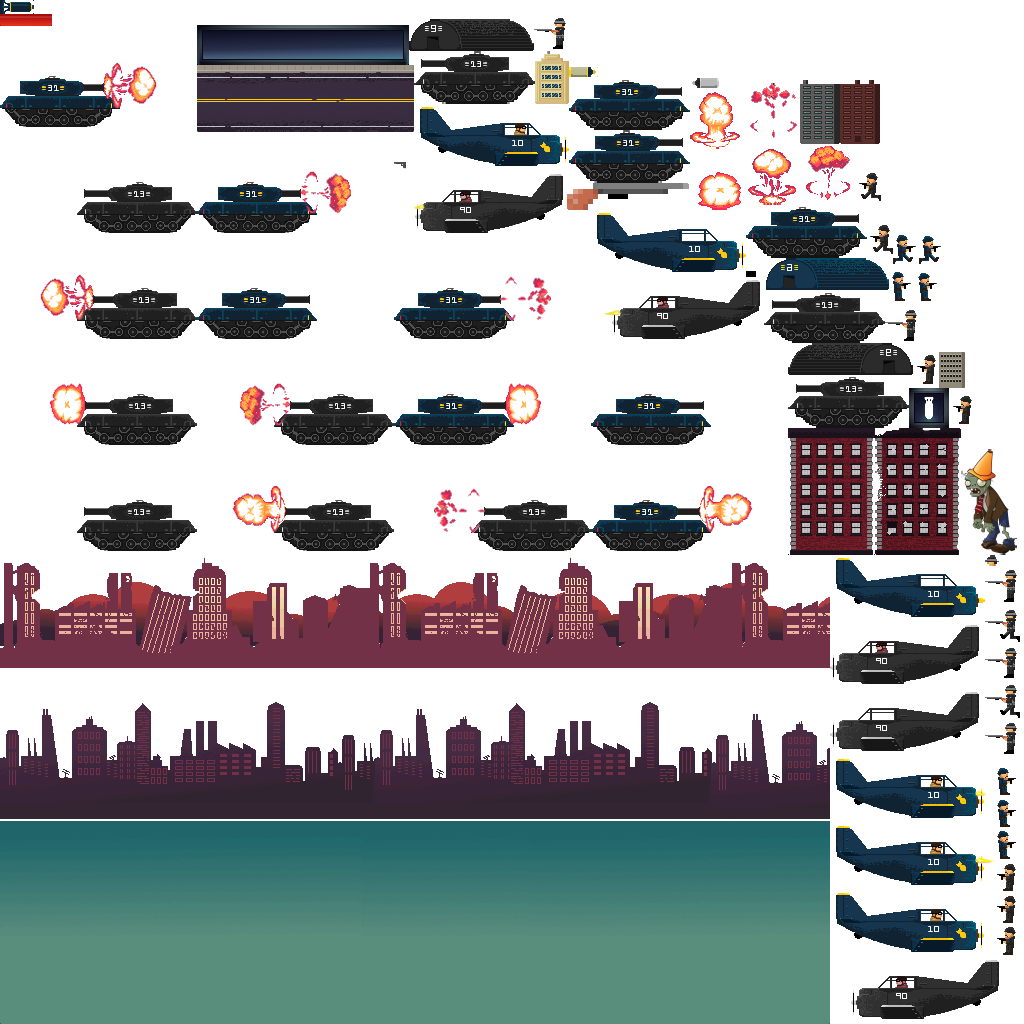
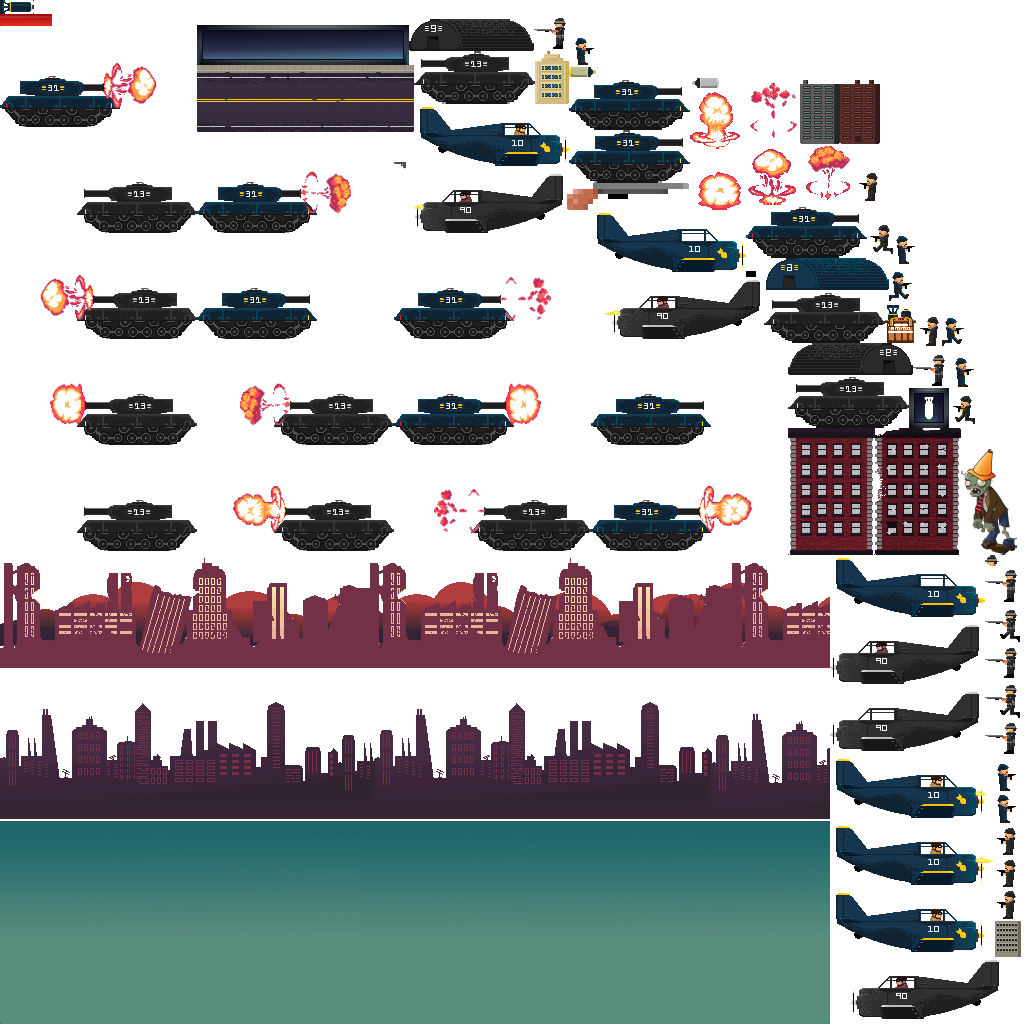
Added ammo crates

Changed region(s): [[0.8438, 0.2188, 0.9688, 0.375], [0.9688, 0.75, 1.0, 0.9375], [0.5625, 0.0312, 0.5938, 0.0625]]

diff --git a/core/src/com/dpc/vthacks/level/Level.java b/core/src/com/dpc/vthacks/level/Level.java
@@ -1,8 +1,8 @@
 package com.dpc.vthacks.level;
 
-import com.badlogic.gdx.Input.Keys;
+import java.util.Iterator;
+
 import com.badlogic.gdx.InputAdapter;
-import com.badlogic.gdx.graphics.g2d.TextureRegion;
 import com.badlogic.gdx.graphics.glutils.ShapeRenderer.ShapeType;
 import com.badlogic.gdx.input.GestureDetector;
 import com.badlogic.gdx.input.GestureDetector.GestureListener;
@@ -14,13 +14,12 @@ import com.dpc.vthacks.App;
 import com.dpc.vthacks.GameCamera;
 import com.dpc.vthacks.MathUtil;
 import com.dpc.vthacks.Player;
-import com.dpc.vthacks.data.AppData;
 import com.dpc.vthacks.data.Assets;
 import com.dpc.vthacks.factories.Factory;
 import com.dpc.vthacks.gameobject.GameObject;
 import com.dpc.vthacks.infantry.Unit;
+import com.dpc.vthacks.objects.AmmoCrate;
 import com.dpc.vthacks.objects.LayerManager;
-import com.dpc.vthacks.objects.LayerManager.Layer;
 import com.dpc.vthacks.properties.ZombieProperties;
 import com.dpc.vthacks.properties.ZombieSegment;
 import com.dpc.vthacks.screens.GameScreen;
@@ -28,6 +27,7 @@ import com.dpc.vthacks.zombie.Zombie;
 
 public class Level {
     private Player player;
+    private Array<AmmoCrate> ammoCrates;
     private Array<Unit> playerArmy;
     private Array<Zombie> zombies;
     private LayerManager layers;
@@ -50,6 +50,7 @@ public class Level {
         layers = new LayerManager(2);
         playerArmy = new Array<Unit>();
         zombies = new Array<Zombie>();
+        ammoCrates = new Array<AmmoCrate>();
         
         initializeCamera();
         
@@ -224,6 +225,16 @@ public class Level {
             spawnTimer = 0;
             generateZombie();
         }
+        
+        // Possibly generate an ammo crate
+        if(MathUtils.random() < 0.01f) {
+            AmmoCrate c = Factory.ammoCratePool.obtain();
+            
+            c.setX(MathUtils.random(0, LevelProperties.WIDTH - c.getWidth()));
+            c.setY(MathUtils.random(0, player.getGround().height));
+            
+            ammoCrates.add(c);
+        }
     }
     
     public void generateZombie() {
@@ -273,6 +284,12 @@ public class Level {
             }
         }
 
+        for(AmmoCrate c : ammoCrates) {
+            if(gameCamera.frustum.pointInFrustum(c.getX(), c.getY(), 0)) {
+                c.render();
+            }
+        }
+        
         if(!player.isDrawingBehind()) {
             player.render();
         }
@@ -337,7 +354,22 @@ public class Level {
         player.update(delta);
     }
     
-    public void checkForCollisions() {    
+    public void checkForCollisions() { 
+        Iterator<AmmoCrate> iter = ammoCrates.iterator();
+        AmmoCrate cur = null;
+        
+        while(iter.hasNext()) {
+            cur = iter.next();
+            
+            // If the player obtains an ammo crate, refill ammo and remove it
+            if(cur.getBoundingRectangle().overlaps(player.getBoundingRectangle())) {
+                player.refillAmmo();
+                Factory.ammoCratePool.free(cur);
+                Assets.outOfAmmo.play();
+                iter.remove();
+            }
+        }
+        
         for(Unit unit : playerArmy) {
             for(Zombie zombie : zombies) {
                 if(zombie.getBoundingRectangle().overlaps(unit.getBoundingRectangle()) &&

diff --git a/core/src/com/dpc/vthacks/factories/Factory.java b/core/src/com/dpc/vthacks/factories/Factory.java
@@ -5,10 +5,10 @@ import com.badlogic.gdx.math.MathUtils;
 import com.badlogic.gdx.math.Vector2;
 import com.badlogic.gdx.utils.Pool;
 import com.dpc.vthacks.Player;
-import com.dpc.vthacks.animation.SpriteAnimation;
 import com.dpc.vthacks.data.Assets;
 import com.dpc.vthacks.infantry.Soldier;
 import com.dpc.vthacks.infantry.Tank;
+import com.dpc.vthacks.objects.AmmoCrate;
 import com.dpc.vthacks.objects.GameSprite;
 import com.dpc.vthacks.objects.Gun;
 import com.dpc.vthacks.properties.Properties;
@@ -28,12 +28,21 @@ public class Factory {
     private static ZombieProperties zombieProperties;
     private static Vector2 playerGunOffset;
     
-    private static final int NUMBER_OF_BOMBS = 100;
+    private static final int NUMBER_OF_BOMBS = 15;
     
     public static void init() {
 //        myArmyY = GameScreen.battle.getMyArmy().getBase().getY();
 //        myArmyX = GameScreen.battle.getMyArmy().getBase().getX();
     }
+    
+    public static final Pool<AmmoCrate> ammoCratePool = new Pool<AmmoCrate>(NUMBER_OF_BOMBS) {
+
+        @Override
+        protected AmmoCrate newObject() {
+            return new AmmoCrate(Assets.ammoCrate, 0, 0);
+        }
+        
+    };
     
     public static final Pool<Tank> tankPool = new Pool<Tank>() {
 

diff --git a/core/src/com/dpc/vthacks/data/Assets.java b/core/src/com/dpc/vthacks/data/Assets.java
@@ -19,6 +19,7 @@ public class Assets {
     public static ObjectMap<String, SpriteAnimation> tankAnimations;
     public static ObjectMap<String, SpriteAnimation> zombieAnimations;
     
+    public static TextureRegion ammoCrate;
     public static TextureRegion shotgun;
     public static TextureRegion plane, playerIcon, zombie, emptyPlane, bomb, road, background, tankShell, menuBackground, enemyBase, playerBase, healthbar, bullet;
     public static TextureRegion[] buildings, skylines;
@@ -200,6 +201,7 @@ public class Assets {
         background = gameAtlas.findRegion("background");
         bomb = gameAtlas.findRegion("bomb");
         road = gameAtlas.findRegion("road");
+        ammoCrate = gameAtlas.findRegion("Ammo Crate");
         
         plane.flip(true, false);
       //  playerStationary.flip(true, false);

diff --git a/core/src/com/dpc/vthacks/Player.java b/core/src/com/dpc/vthacks/Player.java
@@ -199,7 +199,7 @@ public class Player extends AdvancedAnimatedUnit {
     public boolean isMovingLeft() {
         return movingLeft;
     }
-
+    
     public void moveLeft() {
         movingLeft = true;
         
@@ -242,6 +242,15 @@ public class Player extends AdvancedAnimatedUnit {
         this.money = money;
     }
 
+    public void addAmmo(int am) {
+        currentWeapon.setAmmo(currentWeapon.getAmmo() + am);
+    }
+    
+    public void refillAmmo() {
+        currentWeapon.setAmmo(currentWeapon.getMaxAmmo());
+        getParentLevel().getContext().getToolbar().setAmmo(currentWeapon.getAmmo());
+    }
+    
     public void setGround(Rectangle rect) {
         this.ground = rect;
     }

diff --git a/core/src/com/dpc/vthacks/input/GameToolbar.java b/core/src/com/dpc/vthacks/input/GameToolbar.java
@@ -305,8 +305,8 @@ public class GameToolbar {
         stage.addActor(joystick);
 //        stage.addActor(bombButton);
 //        stage.addActor(strafeButton);
-        stage.addActor(tankButton);
-        stage.addActor(soldierButton);
+  //      stage.addActor(tankButton);
+  //      stage.addActor(soldierButton);
         stage.addActor(moneyToast);
 //        stage.addActor(tankUpgradeButton);
 //        stage.addActor(towerUpgradeButton);

diff --git a/core/src/com/dpc/vthacks/objects/AmmoCrate.java b/core/src/com/dpc/vthacks/objects/AmmoCrate.java
@@ -1,0 +1,18 @@
+package com.dpc.vthacks.objects;
+
+import com.badlogic.gdx.graphics.g2d.TextureRegion;
+import com.badlogic.gdx.utils.Pool.Poolable;
+
+public class AmmoCrate extends GameSprite implements Poolable {
+    
+    public AmmoCrate(TextureRegion region, float x, float y) {
+        super(region, x, y);
+    }
+
+    @Override
+    public void reset() {
+        setX(0);
+        setY(0);
+    }
+
+}
